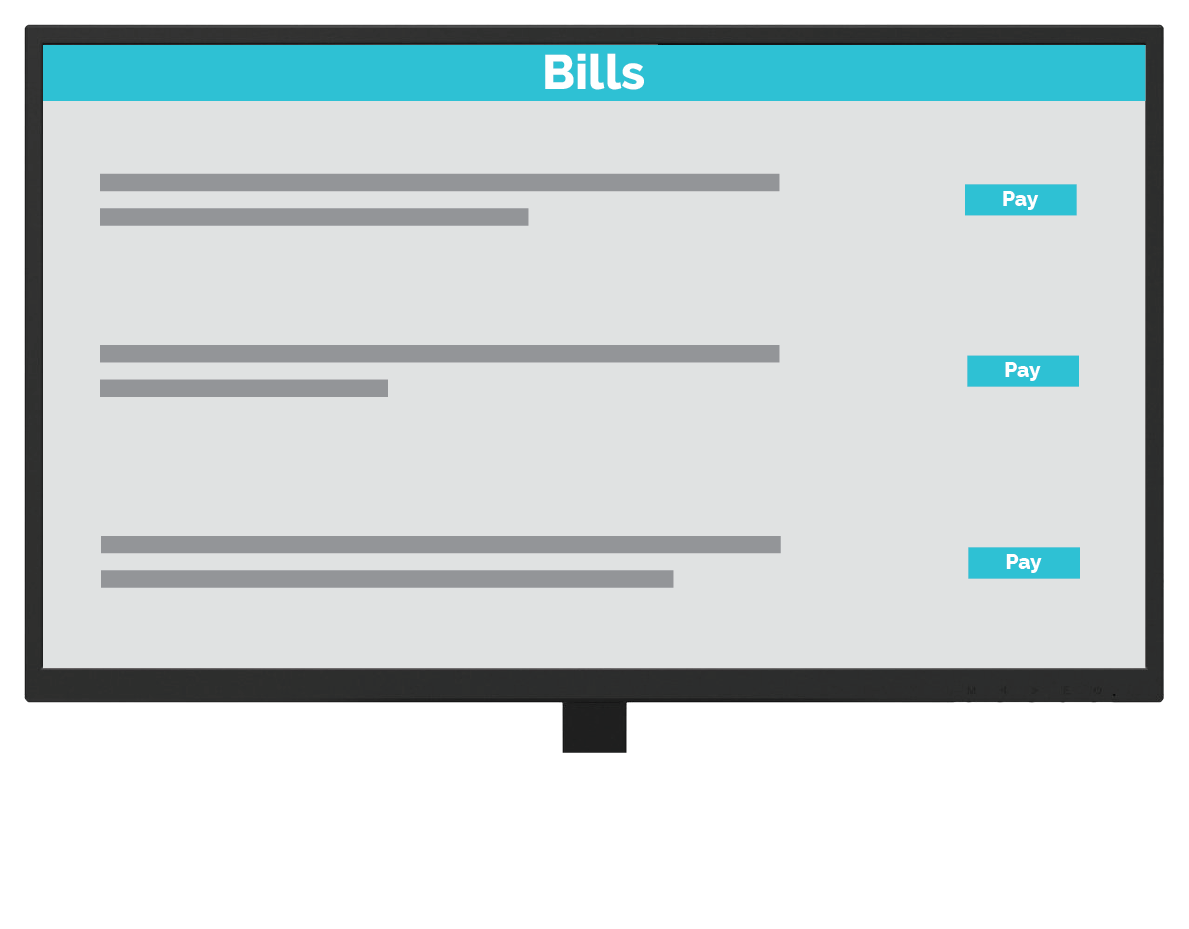
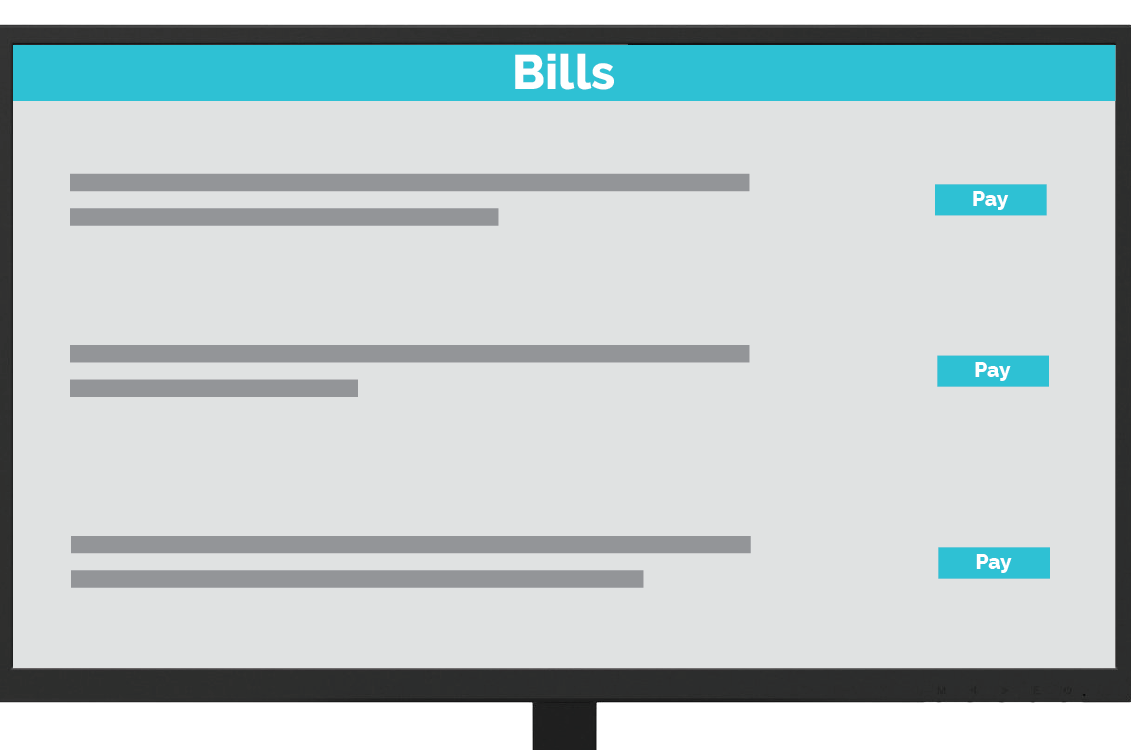
Fix spacing on how

diff --git a/how-it-works.html b/how-it-works.html
@@ -43,18 +43,20 @@
           <li><i class="icon i-48 i-income-grey"></i><span class="icon-label">Budgets</span></li>
         </ol>
       </div>
-      <div class="unit s-1 l-2-3">
+      <div class="unit s-1 l-2-3 pad-t">
         <img class="img-flex banner-img" src="images/devices.png" alt="">
       </div>
     </div>
 
+    <hr>
+
     <div>
-      <h3 class="feature-head-bills"><i class="icon i-48 i-bills "></i><span class="icon-label">Bills</span></h3>
+      <h3 class="back-blue"><i class="icon i-48 i-bills "></i><span class="icon-label">Bills</span></h3>
       <div class="grid">
         <div class="unit l-1-2">
-          <img class="img-flex" src="images/bills-view.png" alt="">
+          <img class="img-flex img-bills" src="images/bills-view.png" alt="">
         </div>
-        <div class="unit l-1-2">
+        <div class="unit l-1-2 gutter-2">
           <h4>This feature will:</h4>
           <ul>
             <li>Notify you when your bills are due</li>
@@ -67,7 +69,7 @@
     <div>
       <h3 class="back-orange"><i class="icon i-48 i-budgets"></i><span class="icon-label">Budgets</span></h3>
       <div class="grid">
-        <div class="unit l-1-2">
+        <div class="unit l-1-2 gutter-2">
           <h4>This feature will:</h4>
           <ul>
             <li>Calculate your weekly spending</li>
@@ -84,9 +86,9 @@
       <h3 class="back-yellow"><i class="icon i-48 i-income"></i><span class="icon-label">Income</span></h3>
       <div class="grid">
         <div class="unit l-1-2">
-          <img class="img-flex" src="images/income-view.png" alt="">
+          <img class="img-flex img-income" src="images/income-view.png" alt="">
         </div>
-        <div class="unit l-1-2">
+        <div class="unit l-1-2 gutter-2">
           <h4>This feature will:</h4>
           <ul>
             <li>Connect with you bank and notify you when there has been a deposit</li>
@@ -96,8 +98,10 @@
       </div>
     </div>
 
+    <hr>
+
     <div>
-      <h3>What You Get:</h3>
+      <h3 class="zetta">What You Get:</h3>
       <caption></caption>
       <table border="1">
         <thead>

diff --git a/prices.html b/prices.html
@@ -35,7 +35,7 @@
   </header>
   <main>
     <div class="grid">
-      <div class="unit s-1 l-1-2">
+      <div class="unit s-1 l-1-2 pad-t">
         <h2>Pick the Plan that Best Fits You</h1>
         <a class="btn" href="sign-up.html">Try It Now</a>
       </div>

diff --git a/css/main.css b/css/main.css
@@ -31,6 +31,19 @@ h1 {
   border: 8px solid white;
 }
 
+hr {
+  border: 10px solid #226729;
+}
+
+.img-bills {
+  margin: 0 1em 0 1em;
+}
+
+.img-income {
+  max-width: 200px;
+  margin-left: 200px;
+}
+
 .prices {
   font-weight: 900;
 }
